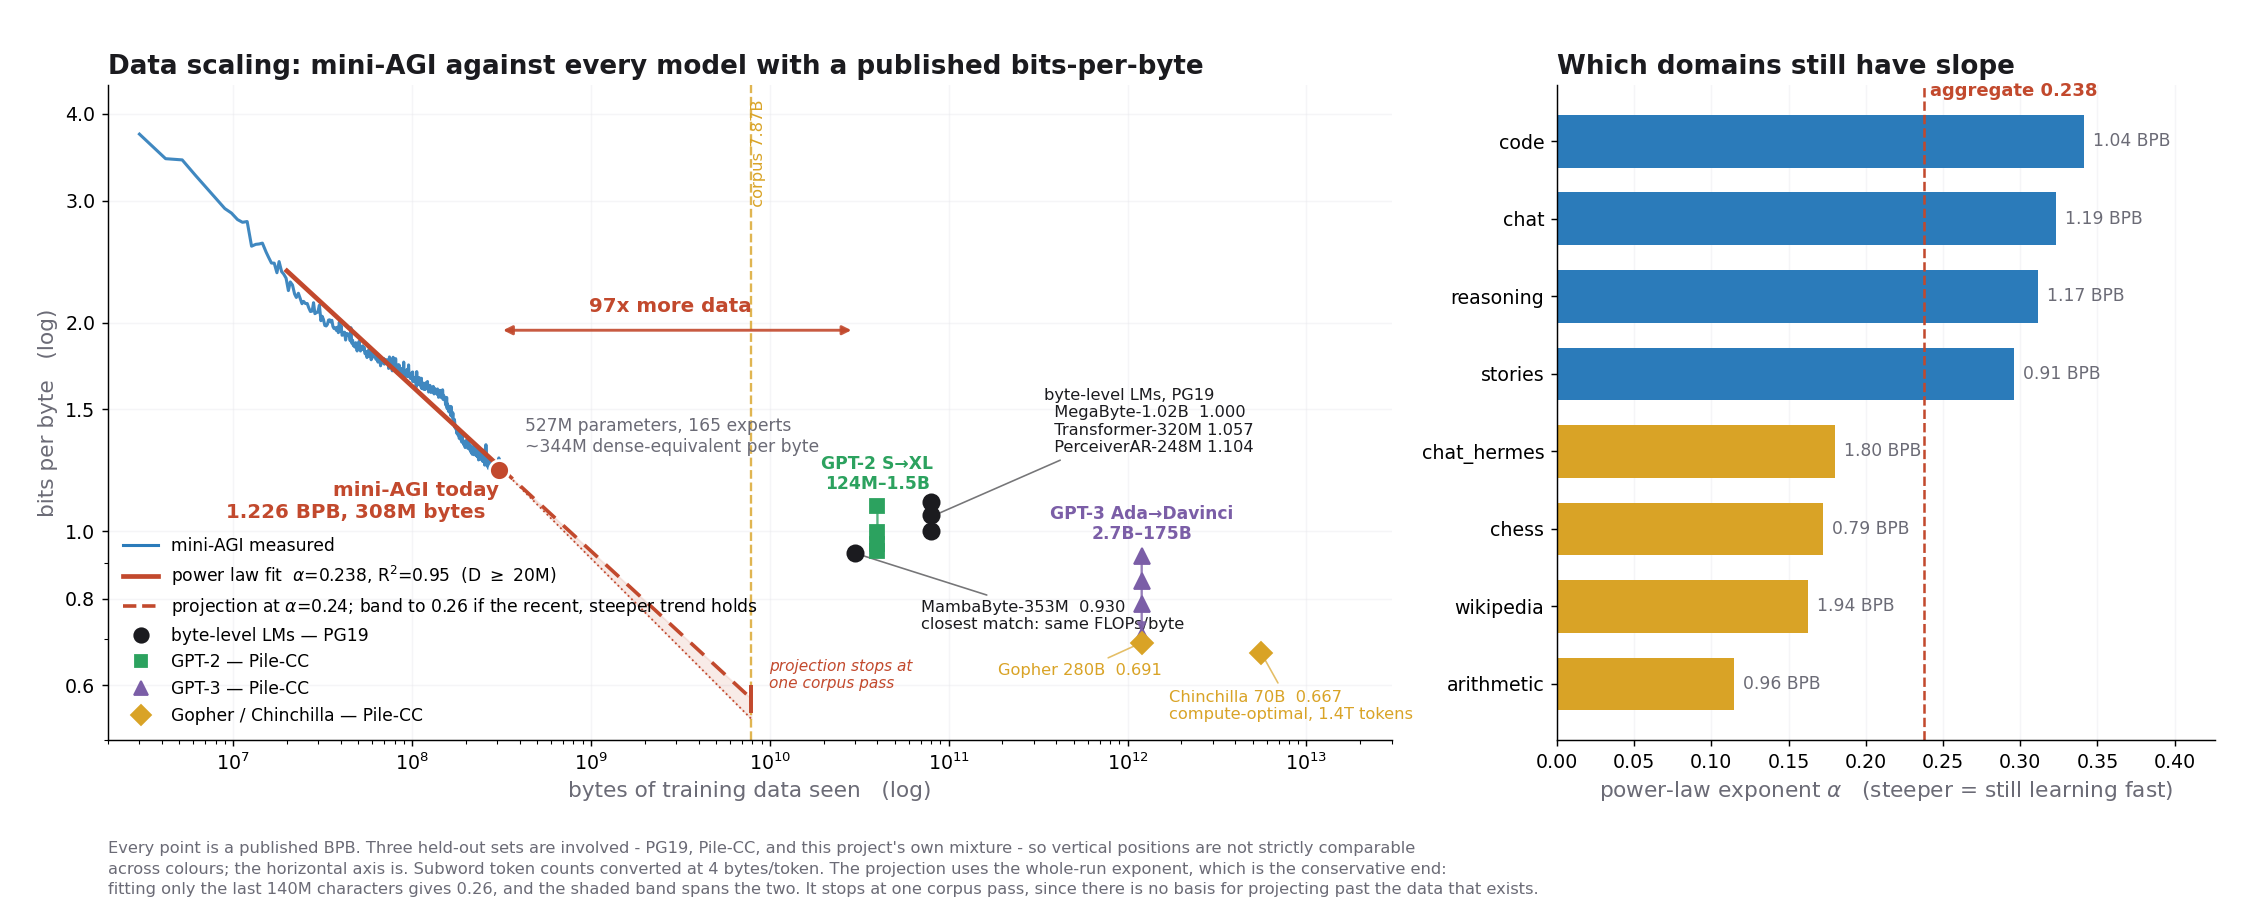
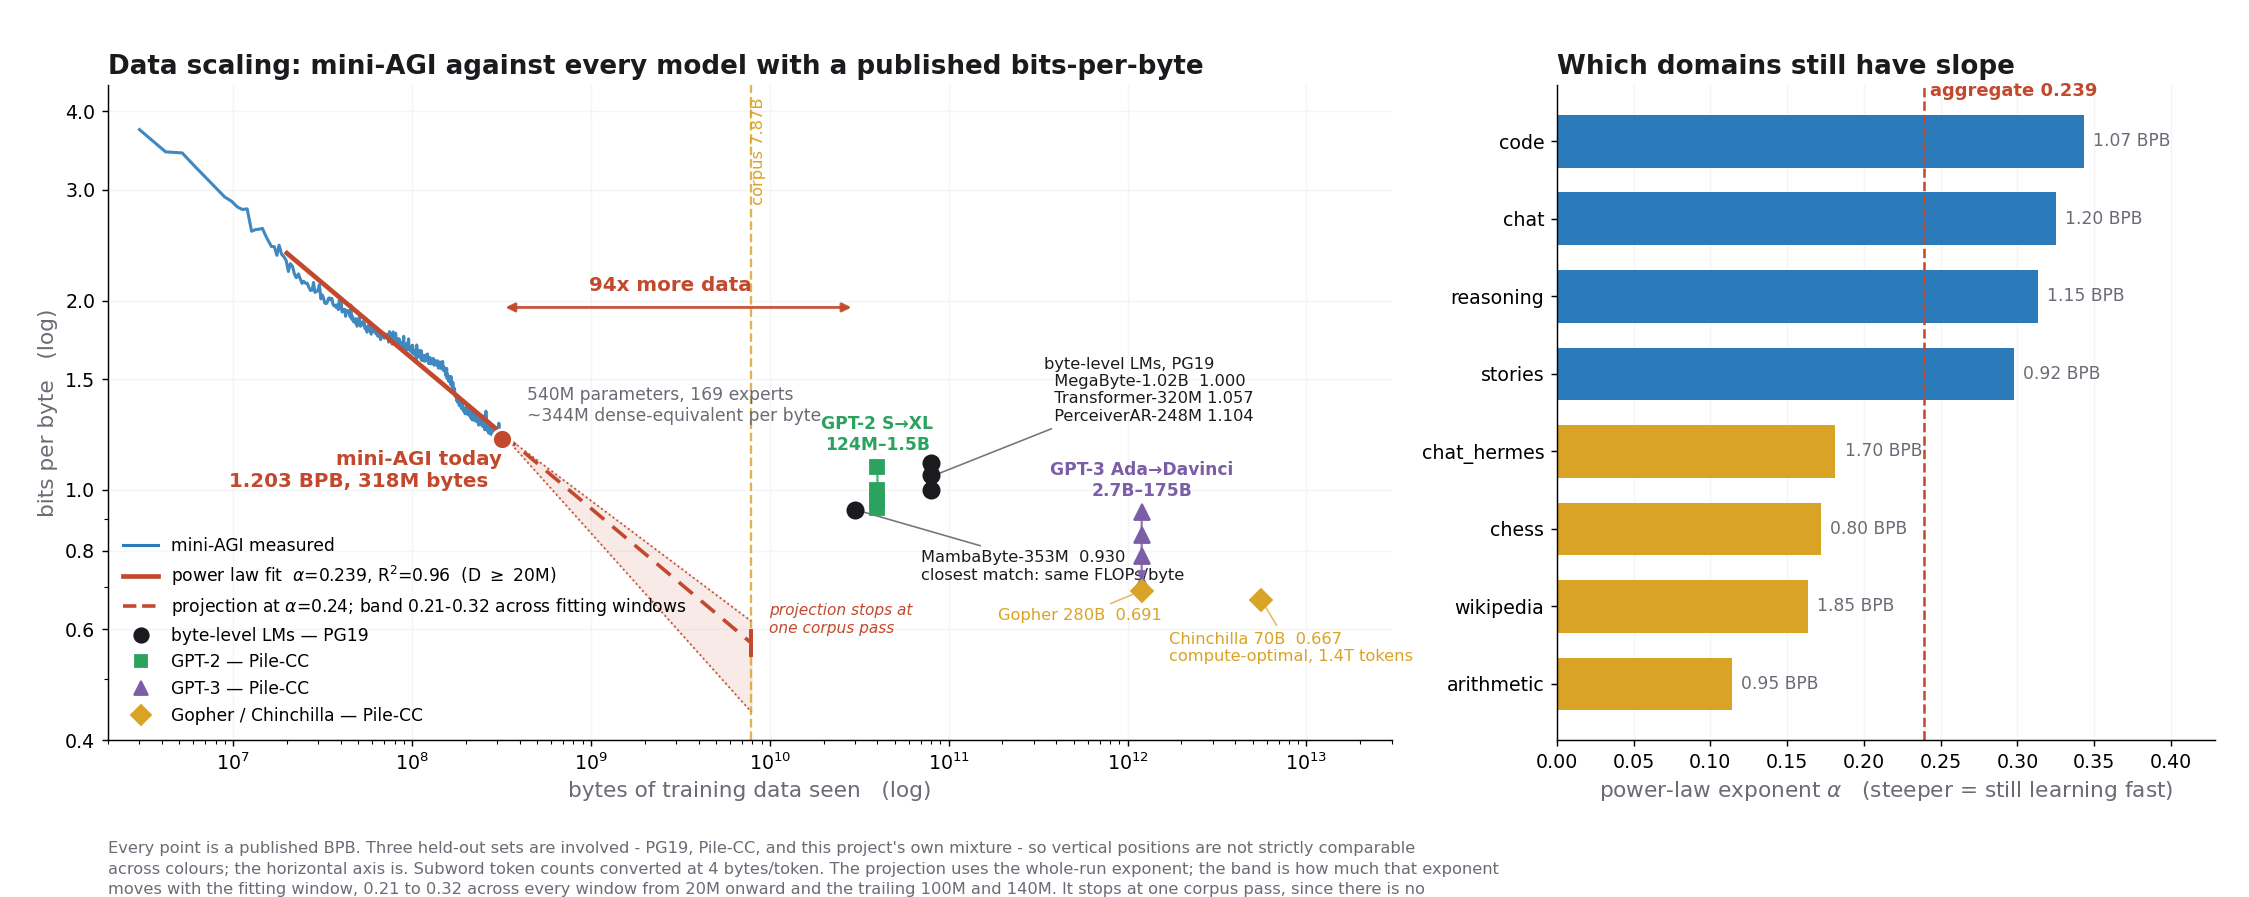
up-to-date numbers

diff --git a/README.md b/README.md
@@ -162,25 +162,25 @@ The numbers below are for tracking purposes and move as the run continues. Held-
 
 There is a second variance underneath these figures. The same configuration run twice lands about 0.014 apart, because the expert dispatch is not deterministic on CUDA. **Treat about 0.03 as the threshold for a real difference**, not the error bar printed beside one score.
 
-**Where the model is** (236.8M characters read, 143 experts):
+**Where the model is** (318.1M characters read, 169 experts):
 
 | | nats/char | bits/byte |
 |---|---|---|
-| **held-out, all eight subjects** | **0.8827** ± 0.0360 | **1.2735** |
-| train | 0.7355 | 1.0611 |
+| **held-out, all eight subjects** | **0.8336** ± 0.0331 | **1.2026** |
+| train | 0.6809 | 0.9823 |
 
 **Held-out loss per subject:**
 
 | Subject | nats/char | bits/byte |
 |---|---|---|
-| `chess` | 0.563 | 0.812 |
-| `stories` | 0.664 | 0.958 |
-| `arithmetic` | 0.675 | 0.974 |
-| `code` | 0.779 | 1.124 |
-| `reasoning` | 0.865 | 1.248 |
-| `chat` | 0.889 | 1.283 |
-| `chat_hermes` | 1.257 | 1.813 |
-| `wikipedia` | 1.369 | 1.975 |
+| `chess` | 0.552 | 0.796 |
+| `stories` | 0.637 | 0.919 |
+| `arithmetic` | 0.657 | 0.948 |
+| `code` | 0.739 | 1.066 |
+| `reasoning` | 0.794 | 1.145 |
+| `chat` | 0.831 | 1.199 |
+| `chat_hermes` | 1.178 | 1.699 |
+| `wikipedia` | 1.280 | 1.847 |
 
 ### Data Scaling
 
@@ -188,19 +188,20 @@ There is a second variance underneath these figures. The same configuration run 
 
 Every point on this chart is a model with a **published bits-per-byte** - the only loss unit that survives a change of tokenizer, which is why a byte-level model can be put beside GPT-3 at all. 
 
-Three held-out sets are involved - PG19, Pile-CC and this project's own mixture - so the vertical positions are not strictly comparable across colours. MambaByte-353M is the closest like-for-like, same parameter class and essentially the same FLOPs per byte, and it read **127x more data than this model has**. Transformer-320M read 339x more. 
+Three held-out sets are involved - PG19, Pile-CC and this project's own mixture - so the vertical positions are not strictly comparable across colours. MambaByte-353M is the closest like-for-like, same parameter class and essentially the same FLOPs per byte, and it read **94x more data than this model has**. Transformer-320M read 251x more. 
 
-**The results so far are promising.** The red line is the fitted power law, `L ∝ D^-0.221` with R² 0.94 over every point past the warmup - a clean, healthy exponent, between Kaplan's 0.095 and Chinchilla's 0.28, and it has held for more than a decade of data. Later windows of the run are steeper still, which is why the projection carries a band out to α = 0.35 rather than a single line.
+**The results so far are promising.** The red line is the fitted power law, `L ∝ D^-0.239` with R² 0.96 over every point past the warmup - a clean, healthy exponent, between Kaplan's 0.095 and Chinchilla's 0.28, and it has held for more than a decade of data. How steep it looks depends on where the fit starts: windows from 40M to 150M give 0.21 to 0.32, and the band on the chart spans that range rather than pretending to one number.
 
 Read straight off that trend, and remembering that the target is this model's own mixture rather than PG19:
 
-| held-out | bytes needed | days at ~780 char/s |
+| held-out | bytes needed | days at ~778 char/s |
 |---|---|---|
-| 1.00 BPB | 0.91B | ~13 |
-| 0.93 BPB | 1.26B | ~19 |
-| 0.80 BPB | 2.50B | ~37 |
+| 1.10 BPB | 0.51B | ~3 |
+| 1.00 BPB | 0.75B | ~6 |
+| 0.93 BPB | 1.02B | ~10 |
+| 0.80 BPB | 1.92B | ~24 |
 
-Those are weeks of reading on one laptop GPU, not years, and all of them sit inside a single pass of the 7.87B-character corpus.
+Those are days to weeks of reading on one laptop GPU, not years, and all of them sit inside a single pass of the 7.87B-character corpus.
 
 The right panel shows which subjects are still moving. Code, chat, stories and reasoning are the steep ones; wikipedia and chat_hermes carry the most loss and have the shallowest slopes, which is the honest counterweight - the expensive domains are not the fastest ones.
 
@@ -326,13 +327,13 @@ The parameter count moves, because the pool grows and prunes itself while traini
 
 ```
 core        8.27M   embeddings, attention, norms, adapter, halting head
-routers     0.15M   one row per expert per call site, plus depth embeddings
-experts   459.3M    146 x 3.15M each  (3 x 512 x 2048)
+routers     0.17M   one row per expert per call site, plus depth embeddings
+experts   531.6M    169 x 3.15M each  (3 x 512 x 2048)
 --------------------
-total     467.7M
+total     540.1M
 ```
 
-**VRAM is set by the working set, not by the pool.** Only 32 experts are resident at a time - about 101M parameters of the 468M - which is why the pool can keep growing on an 8 GB card. Per byte the model costs about 2.4 GFLOPs to train, which puts it in the same compute class as a dense 400M byte-level transformer.
+**VRAM is set by the working set, not by the pool.** Only 32 experts are resident at a time - about 109M parameters of the 540M - which is why the pool can keep growing on an 8 GB card. Per byte the model costs about 2.4 GFLOPs to train, which puts it in the same compute class as a dense 400M byte-level transformer.
 
 ## AI usage
 
